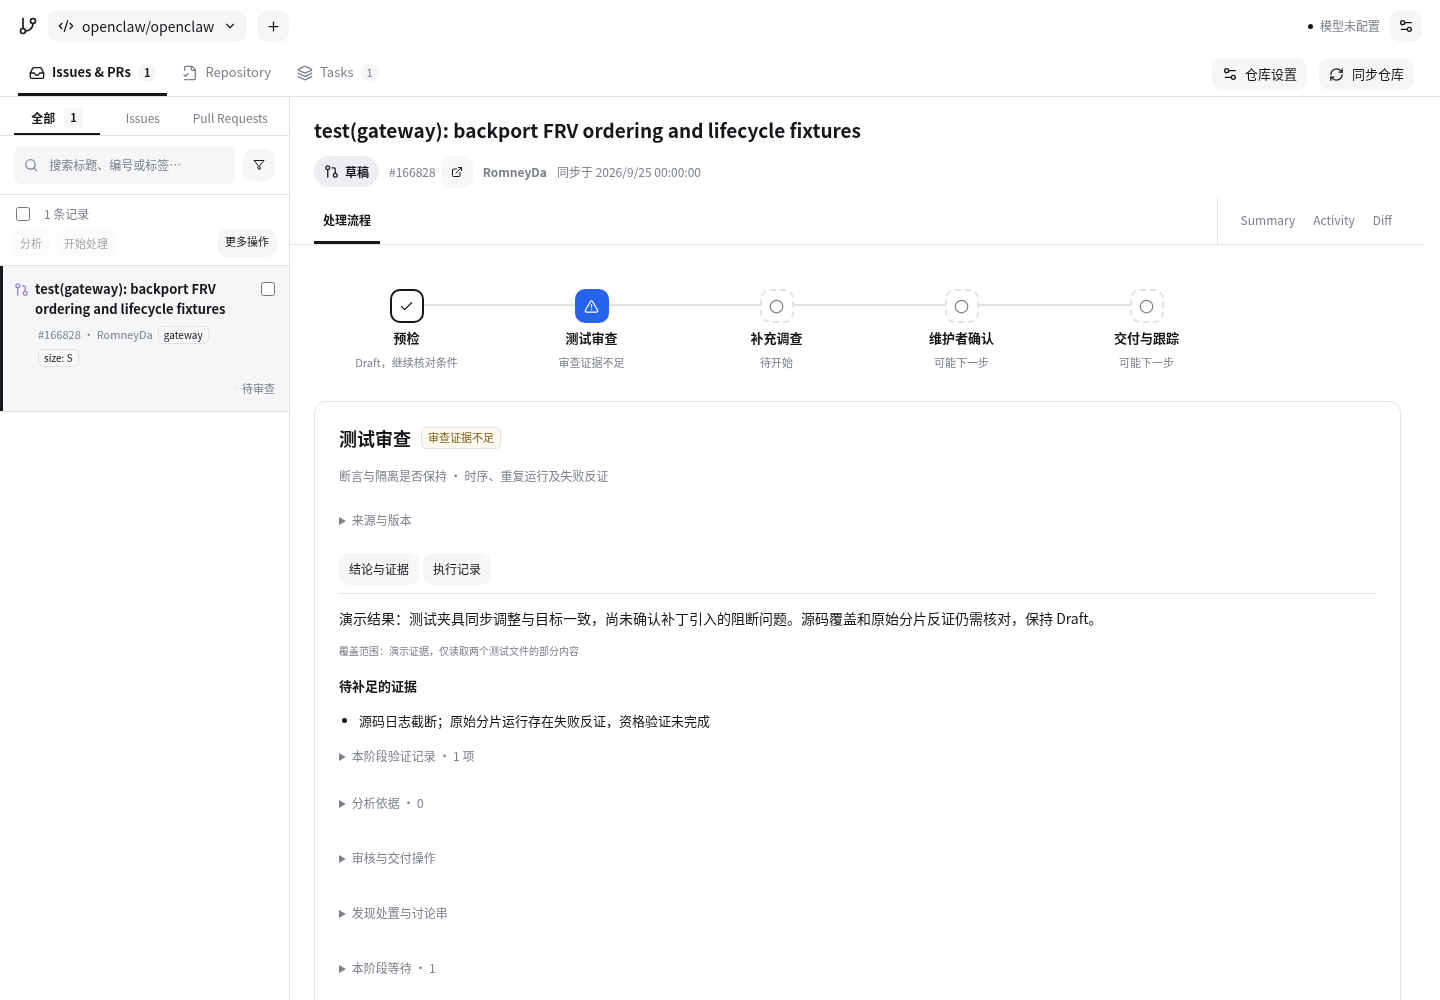
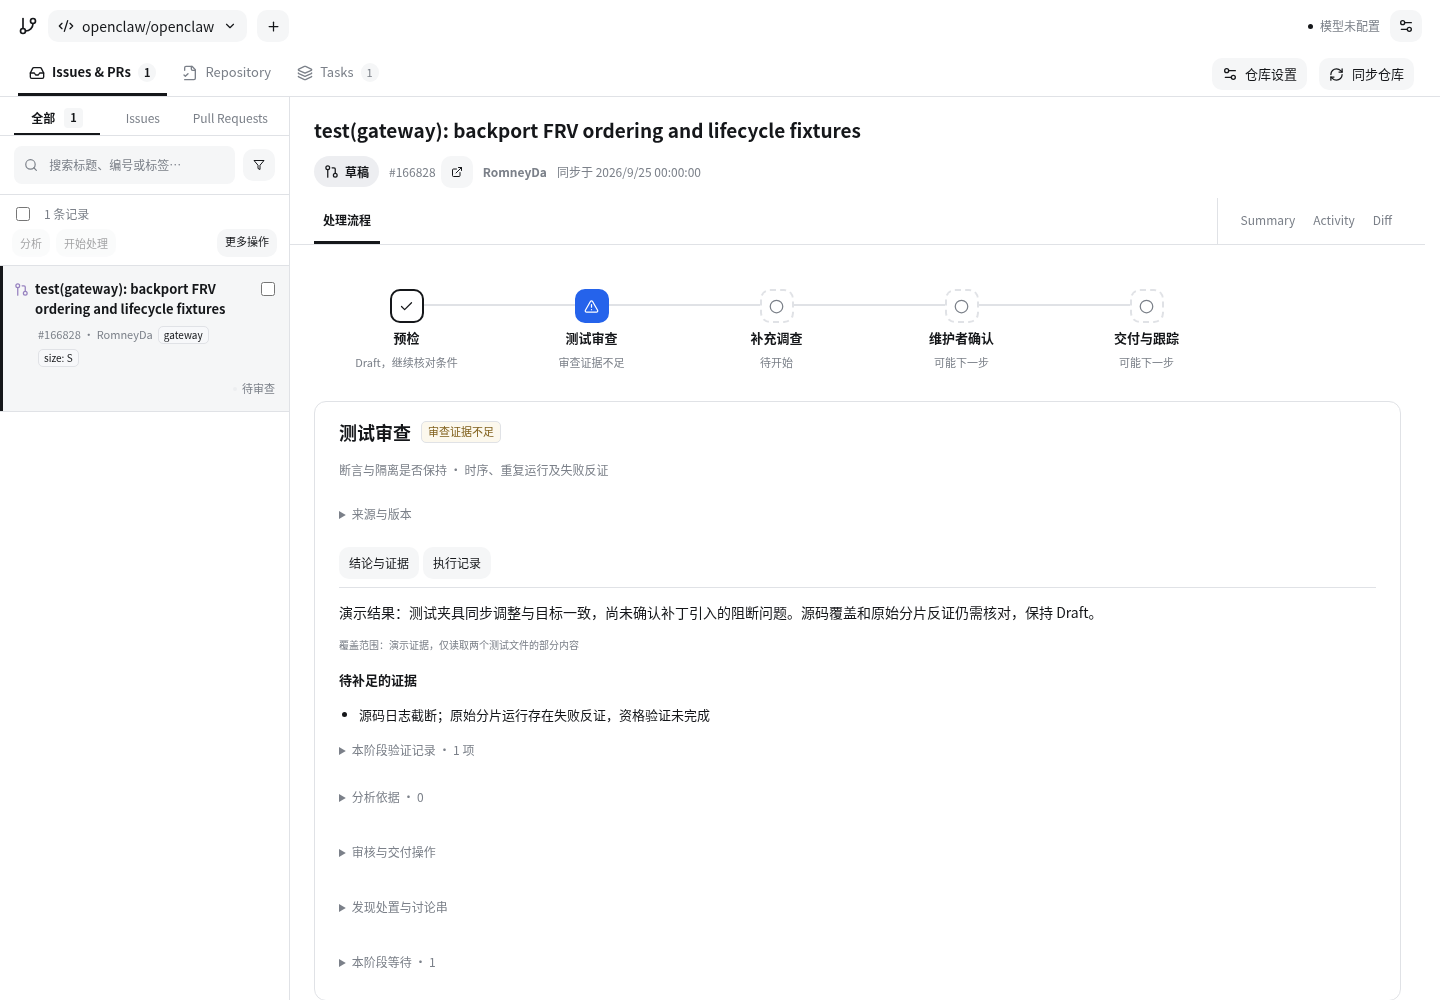
fix: align stage header and remove redundant preview notice

diff --git a/src/client/styles.css b/src/client/styles.css
@@ -569,10 +569,10 @@ body[data-ds-dark-theme] .mw .mw-repo-switch select{background:transparent}
 .mw-workflow-next{color:var(--mw-accent,#217b68)}
 .mw-workflow-actions{display:flex;gap:8px;flex-wrap:wrap;flex-shrink:0;max-width:45%;align-items:flex-start;margin:0}
 .mw-workflow-actions .mw-assistant-more{position:relative}.mw-workflow-actions .mw-assistant-more>div{z-index:3;right:0;left:auto}
-.mw-stage-panel{padding:22px 24px;display:flex;flex-direction:column;gap:12px;border:1px solid var(--mw-border,#dce5df);border-radius:12px;background:var(--mw-surface,#fff)}
+.mw-stage-panel{padding:16px 24px;display:flex;flex-direction:column;gap:12px;border:1px solid var(--mw-border,#dce5df);border-radius:12px;background:var(--mw-surface,#fff)}
 .mw-stage-panel>header{display:flex;gap:10px;align-items:center;flex-wrap:wrap;margin-bottom:0}
 .mw-stage-panel p,.mw-stage-result p{overflow-wrap:anywhere;line-height:1.8}.mw-stage-panel>label{display:flex;gap:8px;align-items:center;flex-wrap:wrap;margin:12px 0}
-.mw-stage-history{padding:9px 12px;border-left:3px solid var(--mw-warning-border,#977329);background:var(--mw-warning-surface,#fff7e8);color:var(--mw-warning-text,#80601c)}
+.mw-stage-history{padding:9px 12px;border-radius:8px;background:var(--mw-surface-soft,#f5f6f7);color:var(--mw-muted,#63786e)}
 .mw-stage-view-controls{display:flex;gap:16px;margin:10px 0 16px}.mw-stage-view-controls button[aria-pressed=true]{font-weight:700;text-decoration:underline;text-underline-offset:4px}
 .mw-stage-result h4{margin-top:16px}.mw-stage-result details{margin-top:16px}.mw-stage-result li,.mw-stage-panel li{line-height:1.8;overflow-wrap:anywhere}
 .mw-stage-activity{border-top:1px solid var(--mw-border,#dce5df);margin-top:24px;padding-top:14px;font-size:12px}.mw-stage-activity li{margin-top:8px;overflow-wrap:anywhere}
@@ -807,3 +807,6 @@ body[data-ds-dark-theme] .mw.mw-native-settings{background:transparent}
 .mw button:disabled{opacity:.4;cursor:not-allowed}
 
 .mw-timeline-node button[aria-pressed=true] .mw-timeline-dot{background:#2563eb;border-color:#2563eb;color:#fff}
+
+.mw-stage-panel>header>.mw-workflow-actions{align-items:center}
+.mw-stage-panel>header .mw-assistant-more>summary{margin:0;padding:6px 10px;line-height:20px;min-height:32px}

diff --git a/src/client/StagePanel.tsx b/src/client/StagePanel.tsx
@@ -64,11 +64,9 @@ export function StagePanel({
         </span>
         {actions && <div className="mw-workflow-actions">{actions}</div>}
       </header>
-      {viewingHistory && (
+      {viewingHistory && selected.status !== "future" && (
         <p className="mw-stage-history">
-          {selected.status === "future"
-            ? "下一步预览 · 尚未执行"
-            : "正在查看历史阶段或尝试 · 只读 · 当前任务继续保留"}
+          正在查看历史阶段或尝试 · 只读 · 当前任务继续保留
         </p>
       )}
       {selected.attemptIds.length > 1 && (

diff --git a/docs/evidence/workflow-stage-ux-2026-10-09/README.md b/docs/evidence/workflow-stage-ux-2026-10-09/README.md
@@ -12,3 +12,9 @@ Synthetic PR fixture, not live GitHub execution. Integrated master `2dad9e1`.
 - Maintenance fixture: desktop/mobile passed, including theme and plan operations.
 
 Screenshots are demonstration data captured from the browser fixture.
+
+Header refinement: reduced panel top padding to 16px, aligned title/action/menu
+centers, and removed the duplicate future-stage notice. Historical read-only
+notice uses the neutral surface color. Browser fixture measures desktop header
+alignment (within 1px) and compact spacing, and checks that future stages do not
+render a historical notice. Typecheck and build passed after this refinement.
